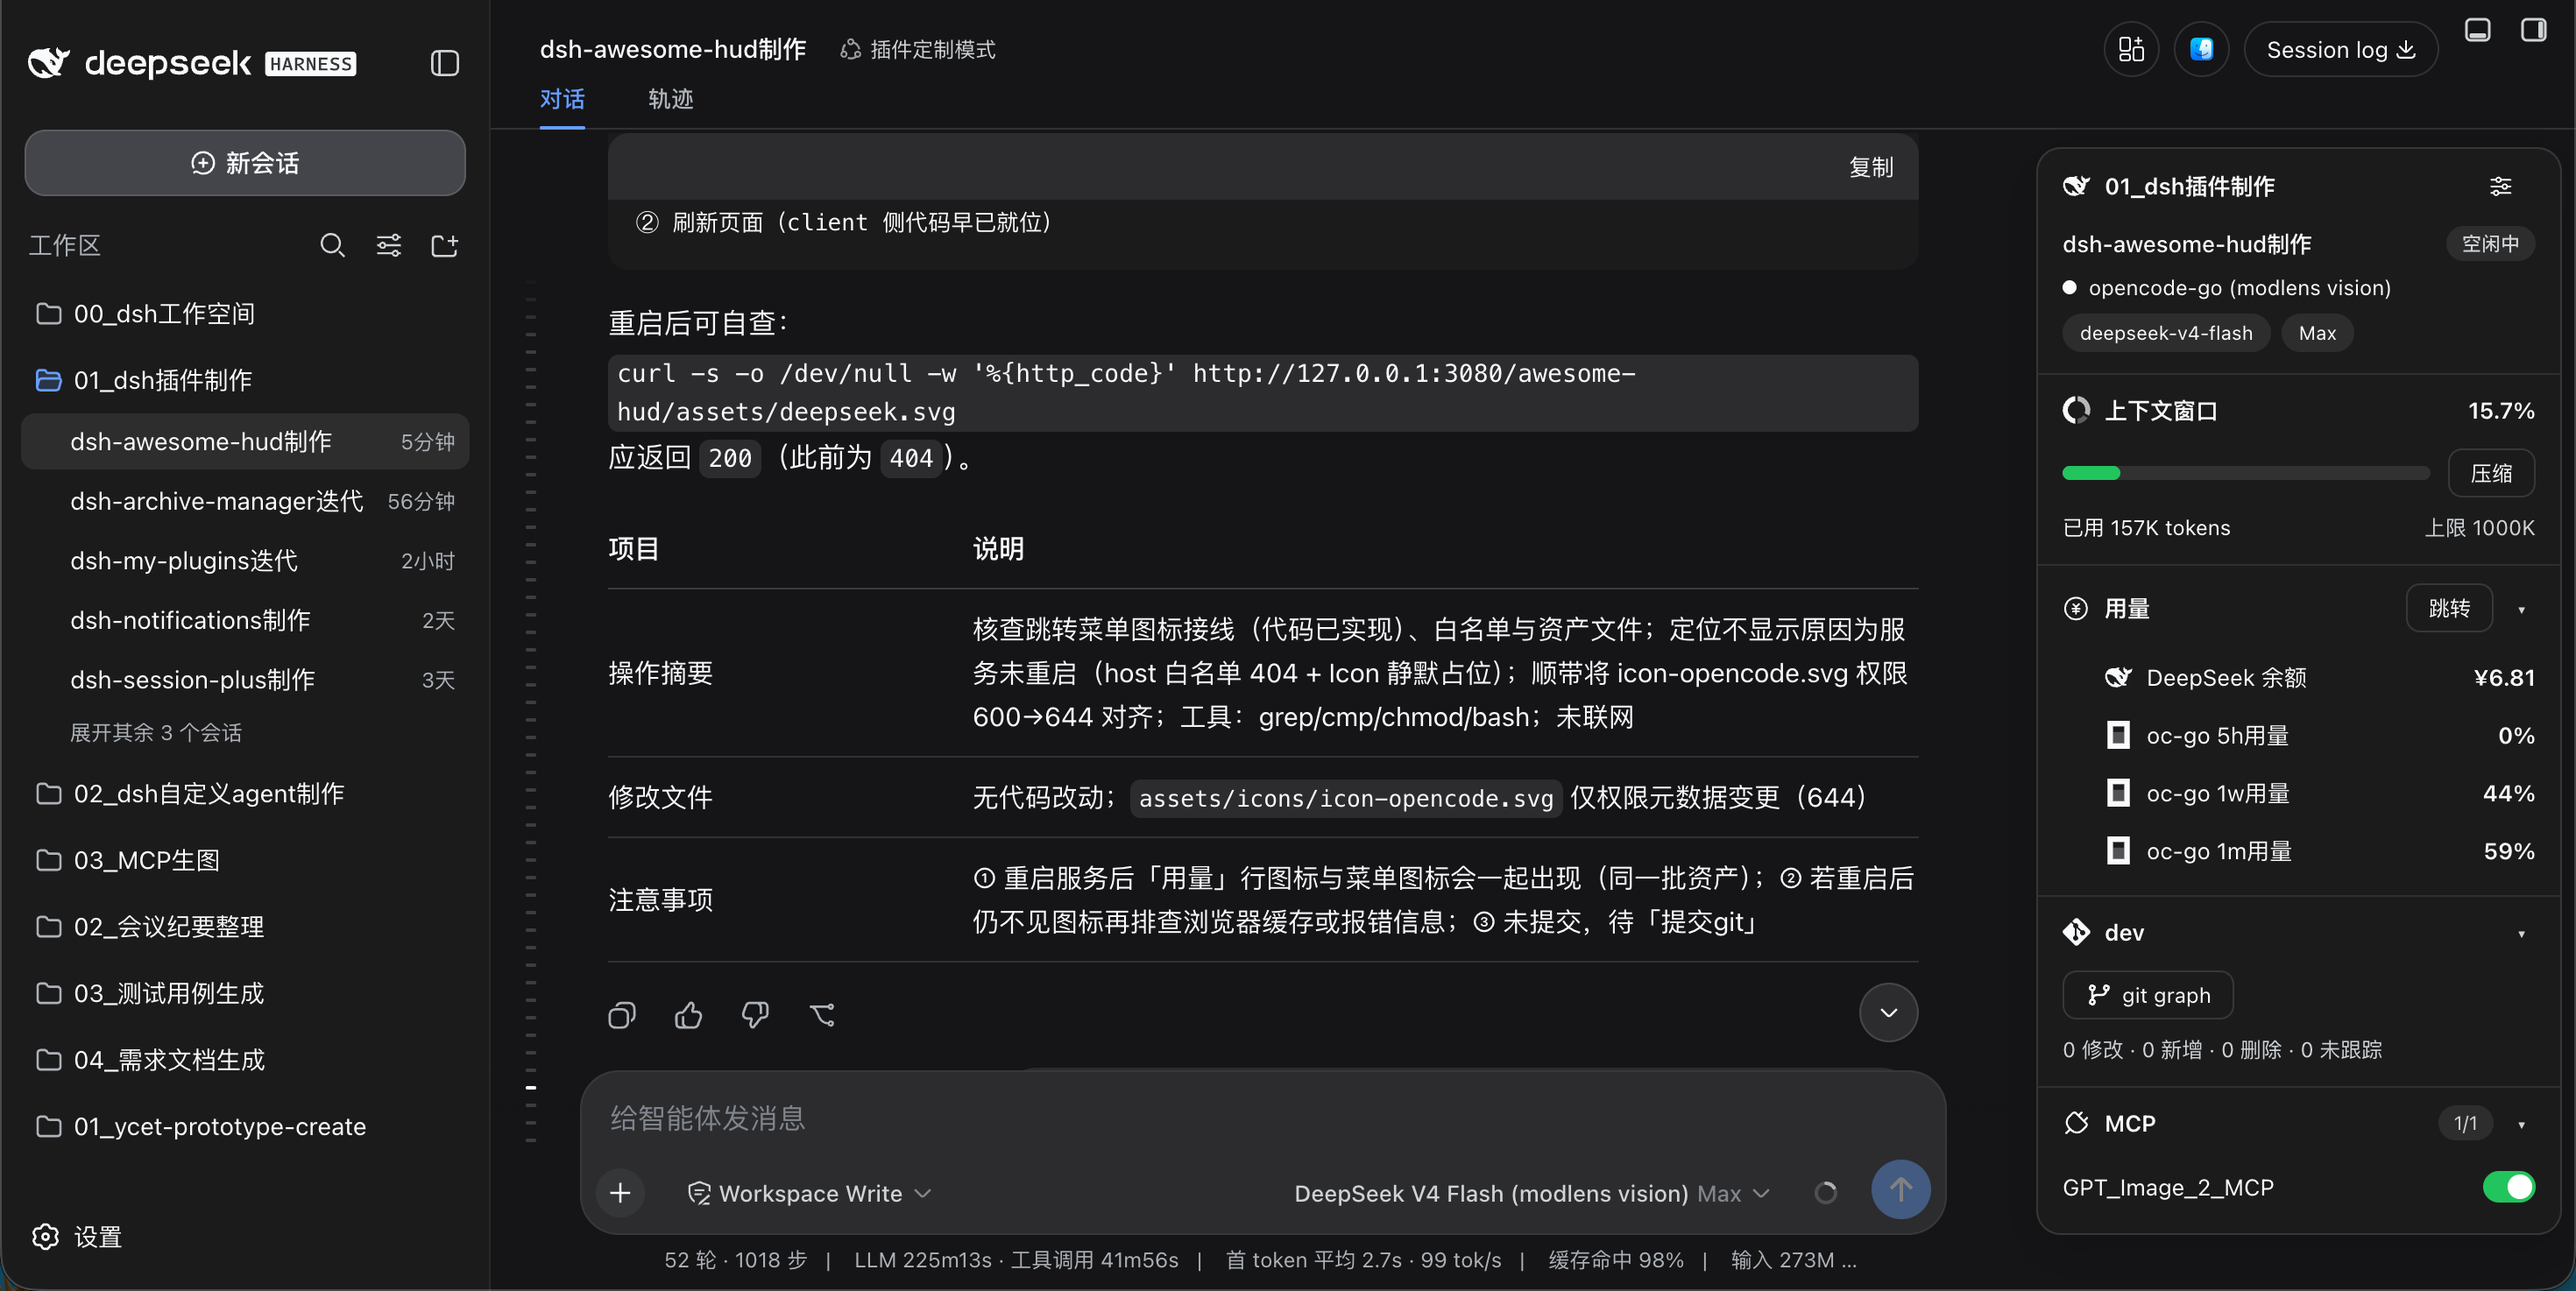
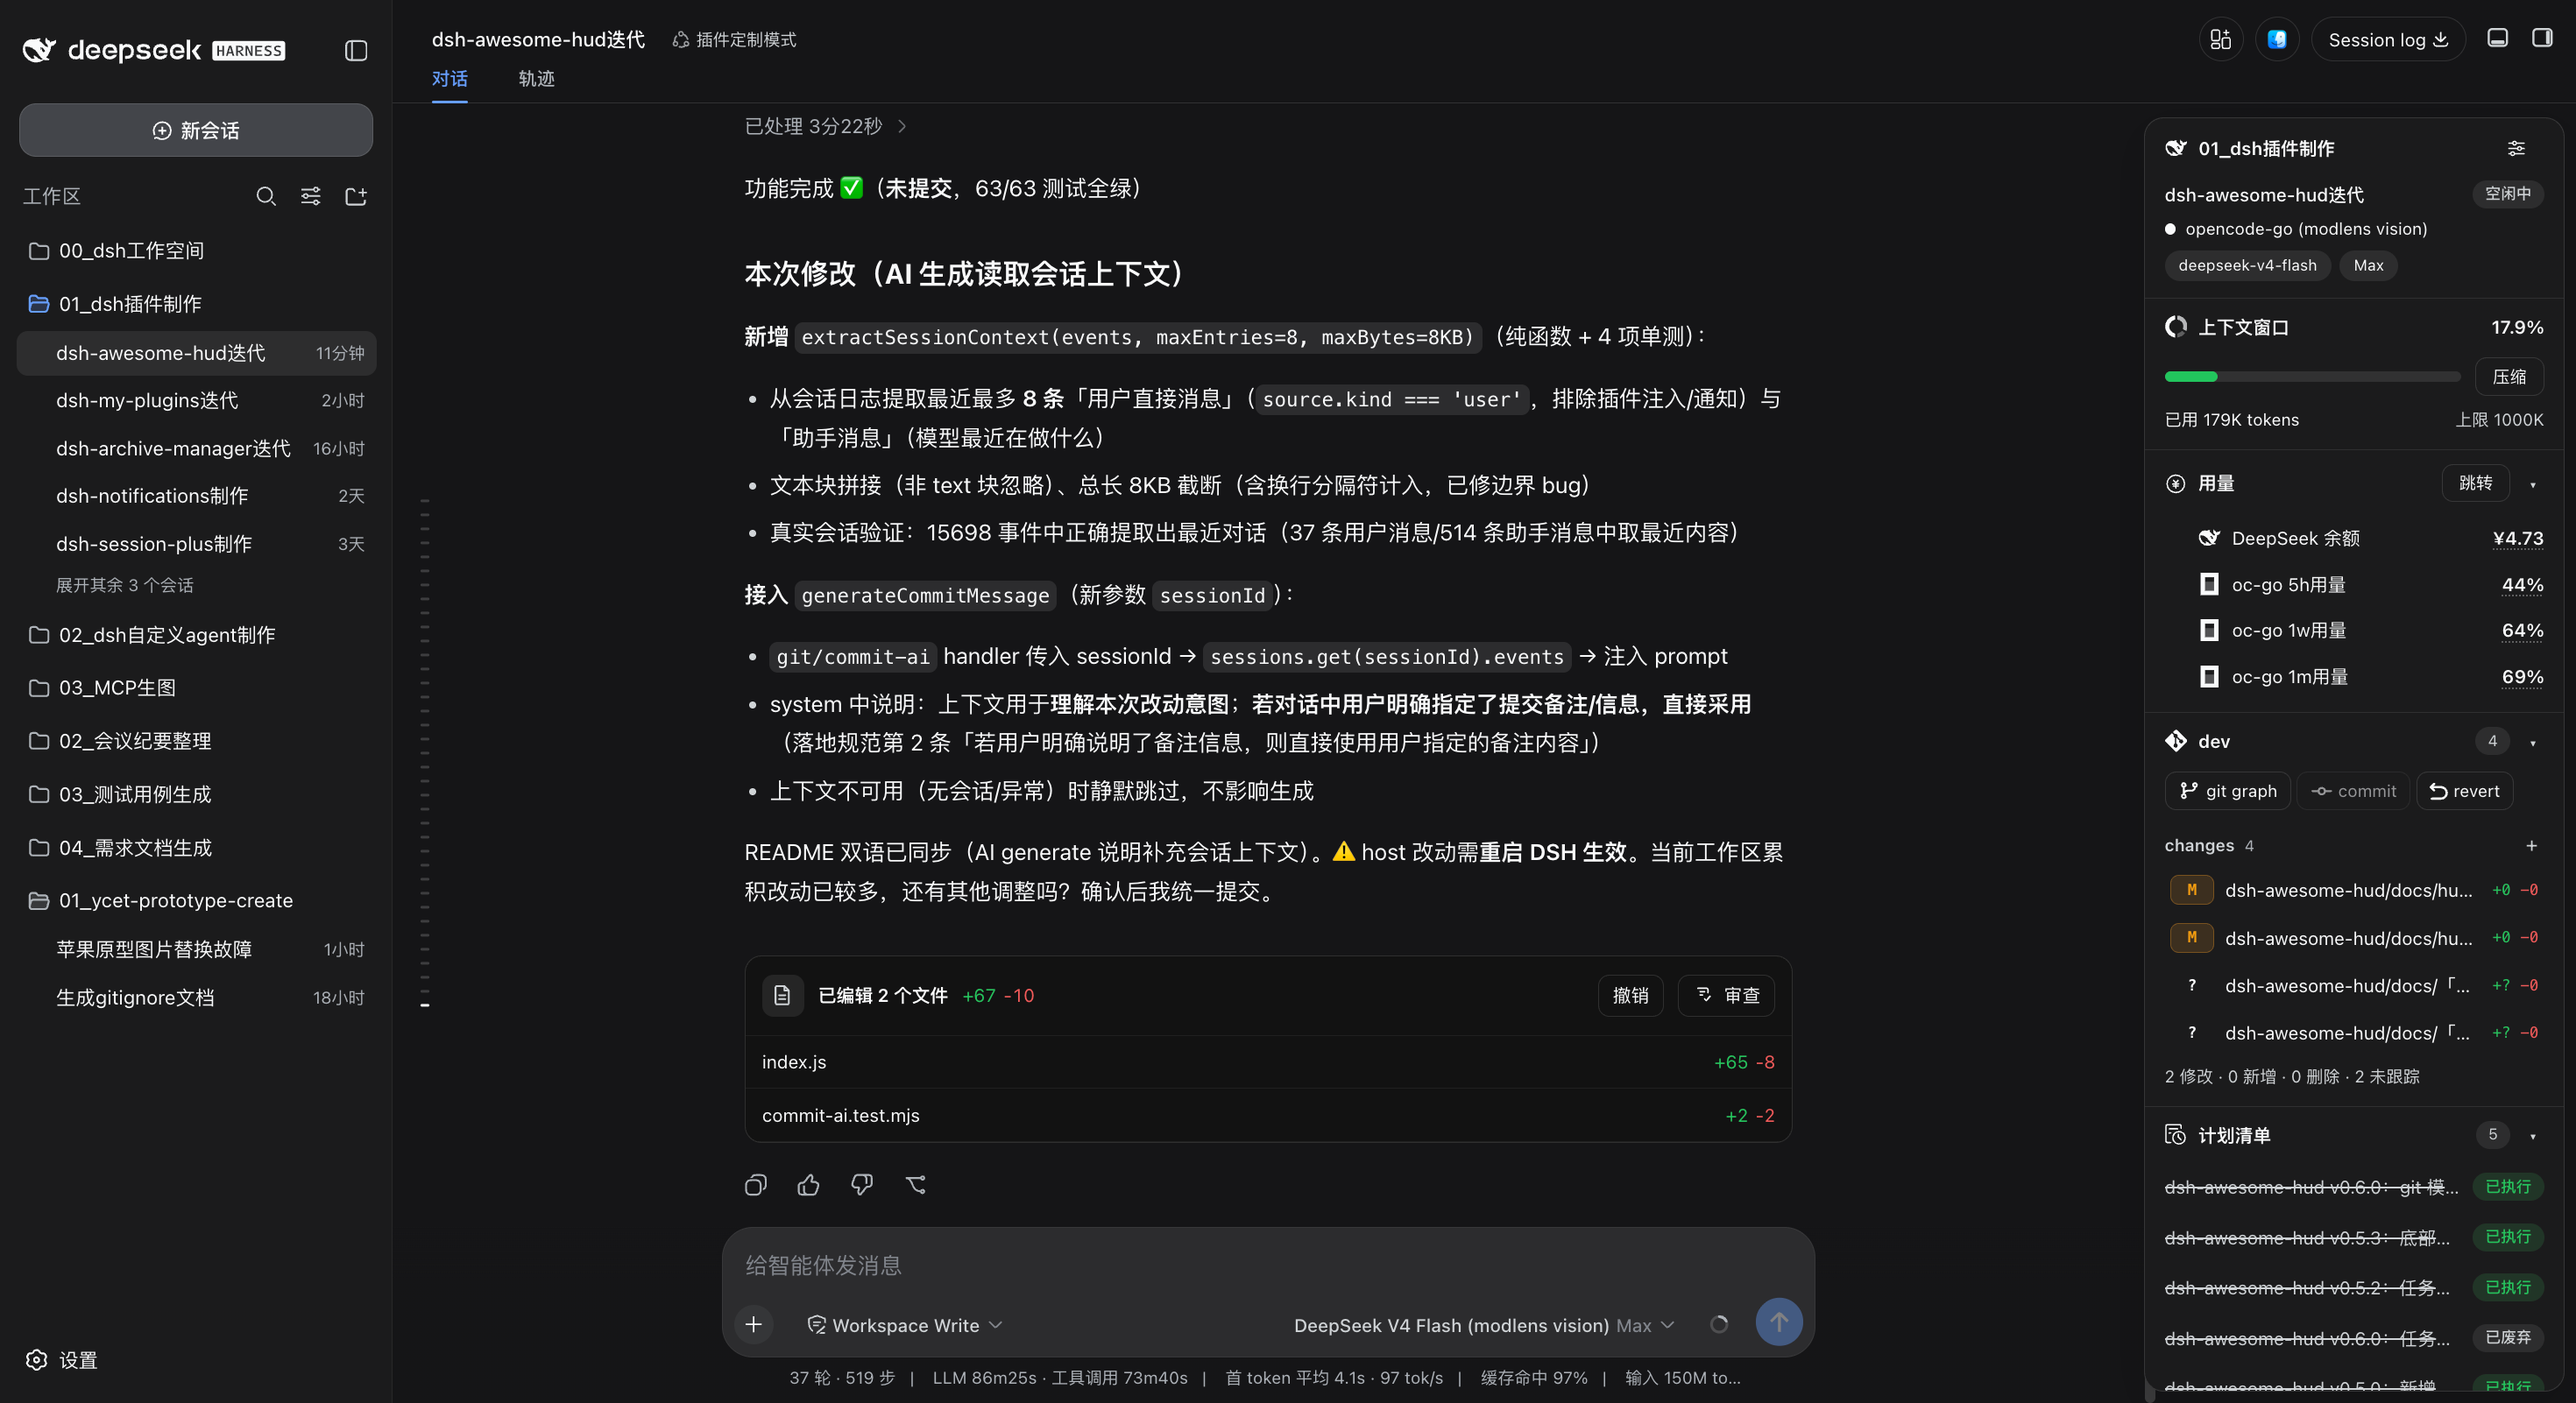
docs: 更新 README 截图并新增 git commit 界面截图
dsh-awesome-hud v0.6.2：[260830] 更新 README 截图并新增 git commit 界面截图

diff --git a/README.md b/README.md
@@ -102,10 +102,6 @@ dsh plugin --profile web add dsh-awesome-hud@link:<absolute-path-to-plugin>
 
 ### 各模块预览
 
-#### HUD 设置菜单
-
-![alt text](docs/hud-settings.png)
-
 #### 「会话」模块
 
 ![alt text](docs/module-session.png)
@@ -140,9 +136,17 @@ dsh plugin --profile web add dsh-awesome-hud@link:<absolute-path-to-plugin>
 
 ### 其他界面
 
+#### HUD 设置菜单
+
+![alt text](docs/hud-settings.png)
+
 #### 「git graph」界面
 
 ![alt text](docs/git-graph.png)
+
+#### 「git commit」界面
+
+![alt text](docs/git-commit.png)
 
 #### 「计划清单」界面
 

diff --git a/README_en.md b/README_en.md
@@ -102,10 +102,6 @@ After installation, a "HUD panel" button appears at the top-right of the chat pa
 
 ### Module Previews
 
-#### HUD Settings
-
-![alt text](docs/hud-settings.png)
-
 #### Session module
 
 ![alt text](docs/module-session.png)
@@ -140,9 +136,17 @@ After installation, a "HUD panel" button appears at the top-right of the chat pa
 
 ### Other interfaces
 
+#### HUD Settings
+
+![alt text](docs/hud-settings.png)
+
 #### git graph interface
 
 ![alt text](docs/git-graph.png)
+
+#### git commit interface
+
+![alt text](docs/git-commit.png)
 
 #### Plan content interface
 
